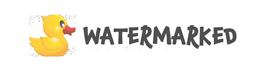
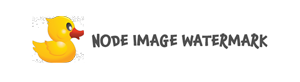
Update README and watermark image

Changed region(s): [[0.0889, 0.1892, 0.9185, 0.7838]]

diff --git a/README.md b/README.md
@@ -5,8 +5,11 @@
 ![Stars](https://img.shields.io/github/stars/retzion/nodejs-watermark)
 [![License: GPL v2](https://img.shields.io/badge/License-GPL%20v2-blue.svg)](https://www.gnu.org/licenses/old-licenses/gpl-2.0.en.html)
 
-[See the demo](https://node-watermark.herokuapp.com/sample) (<i>[view source](https://github.com/retzion/nodejs-watermark)</i>)
+[See the demo](https://node-watermark.herokuapp.com/sample) (master branch of this repo deployed to Heroku)
 
+[Get the NPM package](https://www.npmjs.com/package/node-image-watermark)
+
+<br />
 Try it out on your local machine:
 
 1. Install [GraphicsMagick](http://www.graphicsmagick.org/) on your machine (or a buildpack on your server)
